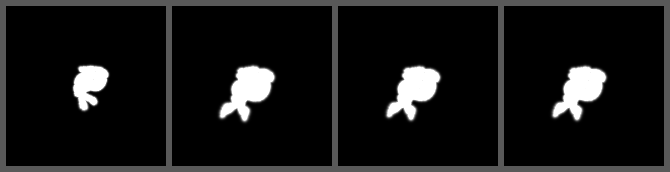
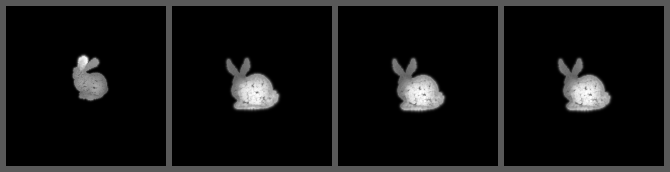
v0.6: Add differentiable spinor depth relief shading and PEP 621 pyproject.toml packaging

diff --git a/demos/scan_pose_recovery.py b/demos/scan_pose_recovery.py
@@ -3,7 +3,7 @@ Twistor Real 3D Scan 6-DoF Pose Recovery (demos/scan_pose_recovery.py)
 ======================================================================
 Loads an external .ply or .obj 3D scan (automatically fetches the Stanford 
 Bunny scan on first run) and optimizes a misaligned 6-DoF camera pose using 
-native complex64 twistor eigenspinor incidence relations.
+native complex64 twistor eigenspinor incidence relations and spinor depth shading.
 
 Usage:
     python demos/scan_pose_recovery.py [optional_path_to_scan.ply_or_obj]
@@ -26,7 +26,7 @@ DEFAULT_PLY_PATH = os.path.join(os.path.dirname(__file__), "stanford_bunny.ply")
 TEMP_OBJ_PATH = os.path.join(os.path.dirname(__file__), "stanford_bunny.obj")
 
 
-def get_scan_points(cli_arg=None, max_points=3500, device="cpu"):
+def get_scan_points(cli_arg=None, max_points=4500, device="cpu"):
     if cli_arg and os.path.exists(cli_arg):
         print(f"Loading user 3D scan: {cli_arg}")
         return load_point_cloud(cli_arg, max_points=max_points, normalize=True, device=device)
@@ -60,32 +60,35 @@ def main():
         "cuda" if torch.cuda.is_available() else "cpu"
     )
     cli_path = sys.argv[1] if len(sys.argv) > 1 else None
-    pts = get_scan_points(cli_path, max_points=3500, device=device)
-    print(f"Running 6-DoF Scan Pose Recovery on {device.upper()} ({pts.shape[0]} vertices)...")
+    pts = get_scan_points(cli_path, max_points=3000, device=device)
+    pts[:, 1] = -pts[:, 1]  # Orient Y-up scan upright in image space
+    print(f"Running Shaded 6-DoF Scan Pose Recovery on {device.upper()} ({pts.shape[0]} vertices)...")
 
     width, height = 160, 160
-    sharp_thresh = 0.042
-    sharp_tau = 0.0003
+    sharp_thresh = 0.038
+    sharp_tau = 0.00025
 
     # Ground truth camera pose
-    true_pos = torch.tensor([0.12, -0.10, -1.85], device=device)
+    true_pos = torch.tensor([0.10, -0.08, -1.75], device=device)
     true_yaw = torch.tensor(0.45, device=device)
-    true_pitch = torch.tensor(-0.30, device=device)
+    true_pitch = torch.tensor(-0.25, device=device)
 
     target_img = twistor_r.render_point_cloud(
         pts, width, height, threshold=sharp_thresh,
-        yaw=true_yaw, pitch=true_pitch, cam_pos=true_pos, tau=sharp_tau, device=device
+        yaw=true_yaw, pitch=true_pitch, cam_pos=true_pos, tau=sharp_tau,
+        shading=True, device=device
     ).detach()
 
     # Initial misaligned camera guess
-    est_pos = torch.tensor([-0.15, 0.14, -2.30], device=device, requires_grad=True)
+    est_pos = torch.tensor([-0.15, 0.14, -2.25], device=device, requires_grad=True)
     est_yaw = torch.tensor(-0.25, device=device, requires_grad=True)
     est_pitch = torch.tensor(0.20, device=device, requires_grad=True)
 
     with torch.no_grad():
         initial_img = twistor_r.render_point_cloud(
             pts, width, height, threshold=sharp_thresh,
-            yaw=est_yaw, pitch=est_pitch, cam_pos=est_pos, tau=sharp_tau, device=device
+            yaw=est_yaw, pitch=est_pitch, cam_pos=est_pos, tau=sharp_tau,
+            shading=True, device=device
         )
 
     optimizer = torch.optim.Adam([
@@ -106,12 +109,14 @@ def main():
 
         target_curr = twistor_r.render_point_cloud(
             pts, width, height, threshold=curr_thresh,
-            yaw=true_yaw, pitch=true_pitch, cam_pos=true_pos, tau=curr_tau, device=device
+            yaw=true_yaw, pitch=true_pitch, cam_pos=true_pos, tau=curr_tau,
+            shading=True, device=device
         ).detach()
 
         pred_img = twistor_r.render_point_cloud(
             pts, width, height, threshold=curr_thresh,
-            yaw=est_yaw, pitch=est_pitch, cam_pos=est_pos, tau=curr_tau, device=device
+            yaw=est_yaw, pitch=est_pitch, cam_pos=est_pos, tau=curr_tau,
+            shading=True, device=device
         )
 
         loss = torch.nn.functional.mse_loss(pred_img, target_curr)
@@ -122,7 +127,8 @@ def main():
             with torch.no_grad():
                 mid_img = twistor_r.render_point_cloud(
                     pts, width, height, threshold=sharp_thresh,
-                    yaw=est_yaw, pitch=est_pitch, cam_pos=est_pos, tau=sharp_tau, device=device
+                    yaw=est_yaw, pitch=est_pitch, cam_pos=est_pos, tau=sharp_tau,
+                    shading=True, device=device
                 )
 
         if epoch % 30 == 0:
@@ -138,7 +144,8 @@ def main():
     with torch.no_grad():
         final_img = twistor_r.render_point_cloud(
             pts, width, height, threshold=sharp_thresh,
-            yaw=est_yaw, pitch=est_pitch, cam_pos=est_pos, tau=sharp_tau, device=device
+            yaw=est_yaw, pitch=est_pitch, cam_pos=est_pos, tau=sharp_tau,
+            shading=True, device=device
         )
 
     grid = torch.stack([
@@ -150,8 +157,8 @@ def main():
 
     out_path = "scan_pose_recovery.png"
     vutils.save_image(grid, out_path, nrow=4, padding=6, pad_value=0.35)
-    print(f"\nScan pose recovery finished in {elapsed:.2f}s!")
-    print(f"Saved 4-panel scan progression to: {os.path.abspath(out_path)}")
+    print(f"\nShaded scan pose recovery finished in {elapsed:.2f}s!")
+    print(f"Saved 4-panel shaded scan progression to: {os.path.abspath(out_path)}")
 
 
 if __name__ == "__main__":

diff --git a/twistor/renderer.py b/twistor/renderer.py
@@ -1,9 +1,8 @@
 """
-Twistor Core Renderer (v0.4 - Differentiable 6-DoF SU(2,2) Complex64 Engine)
+Twistor Core Renderer (v0.6 - Differentiable 6-DoF SU(2,2) Complex64 Engine)
 ===========================================================================
-Evaluates Penrose eigenspinor incidence relations in CP^3:
-A null ray pi_A' intersects spatial point X^(AA') from camera C^(AA') iff 
-(C - X)^(AA') pi_A' is proportional to pi^A (exact zero perpendicular residual).
+Evaluates Penrose eigenspinor incidence relations in CP^3 with optional
+differentiable spinor depth relief derived from Im(<pi | omega - i X pi>).
 """
 
 import torch
@@ -108,9 +107,24 @@ def generate_transformed_ray_spinors(width, height, c_tensor, R_A, R_D, device="
     return omega_spinor, pi_spinor
 
 
-def render_point_cloud(points, width=64, height=64, threshold=0.05, yaw=0.0, pitch=0.0, boost_v=0.0, zoom=1.0, cam_pos=None, tau=0.0005, device="cpu"):
+def render_point_cloud(
+    points,
+    width=64,
+    height=64,
+    threshold=0.05,
+    yaw=0.0,
+    pitch=0.0,
+    boost_v=0.0,
+    zoom=1.0,
+    cam_pos=None,
+    tau=0.0005,
+    shading=False,
+    depth_contrast=2.2,
+    device="cpu",
+):
     """
     Renders a point cloud using native complex64 twistor eigenspinor incidence relations.
+    When shading=True, modulates pixel brightness using differentiable spinor depth relief.
     """
     device = points.device
     R_A, R_D = generate_su22_camera_matrix(yaw=yaw, pitch=pitch, boost_v=boost_v, zoom=zoom, device=device)
@@ -140,14 +154,34 @@ def render_point_cloud(points, width=64, height=64, threshold=0.05, yaw=0.0, pit
     diff = omega_spinor.unsqueeze(1) - pred_omega  # [R, P, 2]
 
     # Eigenspinor perpendicular residual: ||diff||^2 - |<pi | diff>|^2
-    # Equals 0.0 identically whenever ray pi_A' intersects 3D point X!
     total_sq = torch.sum(torch.abs(diff) ** 2, dim=-1)  # [R, P]
     longitudinal = torch.sum(pi_spinor.conj().unsqueeze(1) * diff, dim=-1)  # [R, P] complex64
     perp_sq_residual = torch.relu(total_sq - (torch.abs(longitudinal) ** 2))  # [R, P]
     
-    # Stabilized LogSumExp softmin
+    # Stabilized LogSumExp softmin for silhouette occupancy
     min_val, _ = torch.min(perp_sq_residual, dim=-1, keepdim=True)
     softmin_sq_res = min_val.squeeze(-1) - tau * torch.logsumexp(-(perp_sq_residual - min_val) / tau, dim=-1)
-    
-    intensity = torch.exp(-torch.relu(softmin_sq_res) / (threshold ** 2))
+    occupancy = torch.exp(-torch.relu(softmin_sq_res) / (threshold ** 2))
+
+    if not shading:
+        return occupancy.reshape(height, width)
+
+    # Differentiable Spinor Depth Relief (static tensor shapes — zero XPU boolean indexing):
+    # Signed longitudinal depth along ray pi is encoded in -Im(<pi | diff>).
+    signed_depth = -longitudinal.imag  # [R, P] (smaller = closer to camera)
+    depth_bias = 0.0015 * signed_depth
+    z_score = -(perp_sq_residual + depth_bias) / tau
+    weights = torch.softmax(z_score, dim=-1)  # [R, P] front-surface soft-attention
+    expected_depth = torch.sum(weights * signed_depth, dim=-1)  # [R]
+
+    # Static foreground bounds via torch.where (prevents Level Zero dynamic mask sync)
+    fg_mask = occupancy > 0.1
+    z_near = torch.where(fg_mask, expected_depth, torch.tensor(1e6, device=device)).min().detach()
+    z_far = torch.where(fg_mask, expected_depth, torch.tensor(-1e6, device=device)).max().detach()
+    z_span = torch.clamp(z_far - z_near, min=1e-4)
+
+    rel_depth = torch.clamp((expected_depth - z_near) / z_span, 0.0, 1.0)
+    shade = 0.28 + 0.72 * torch.exp(-depth_contrast * rel_depth)
+
+    intensity = occupancy * shade
     return intensity.reshape(height, width)

diff --git a/twistor/__init__.py b/twistor/__init__.py
@@ -1,0 +1,25 @@
+"""
+twistor-render-core
+===================
+Differentiable 3D rendering engine built on Penrose Twistor Theory (CP^3)
+and native complex64 2-spinor algebra.
+"""
+
+from .renderer import (
+    render_point_cloud,
+    generate_su22_camera_matrix,
+    points_to_complex_hermitian,
+    generate_transformed_ray_spinors,
+)
+from .io import load_point_cloud, load_ply_points, save_ply_points
+
+__version__ = "0.6.0"
+__all__ = [
+    "render_point_cloud",
+    "generate_su22_camera_matrix",
+    "points_to_complex_hermitian",
+    "generate_transformed_ray_spinors",
+    "load_point_cloud",
+    "load_ply_points",
+    "save_ply_points",
+]
